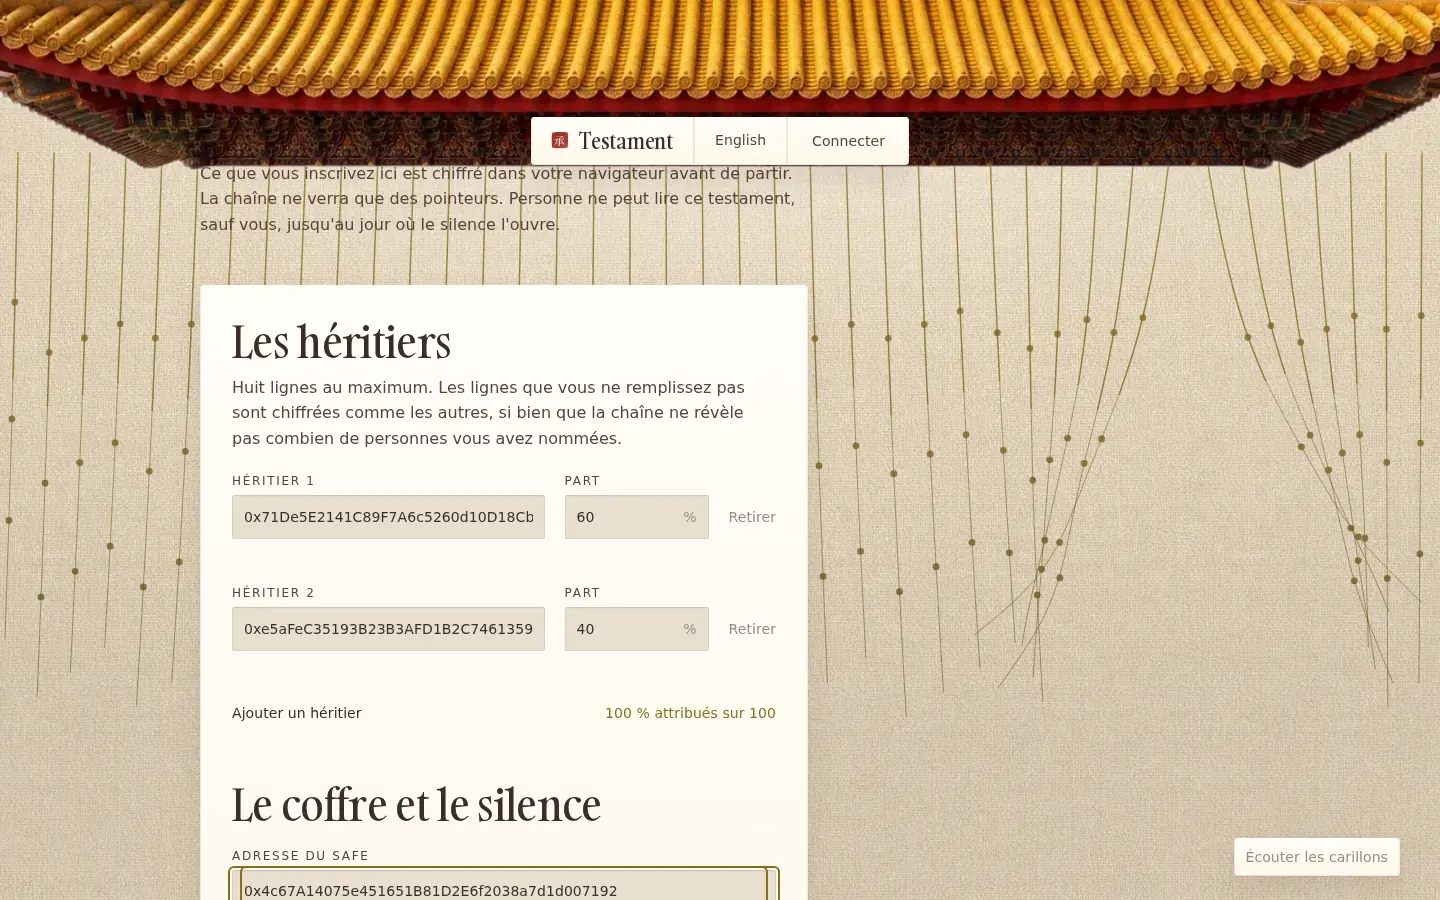
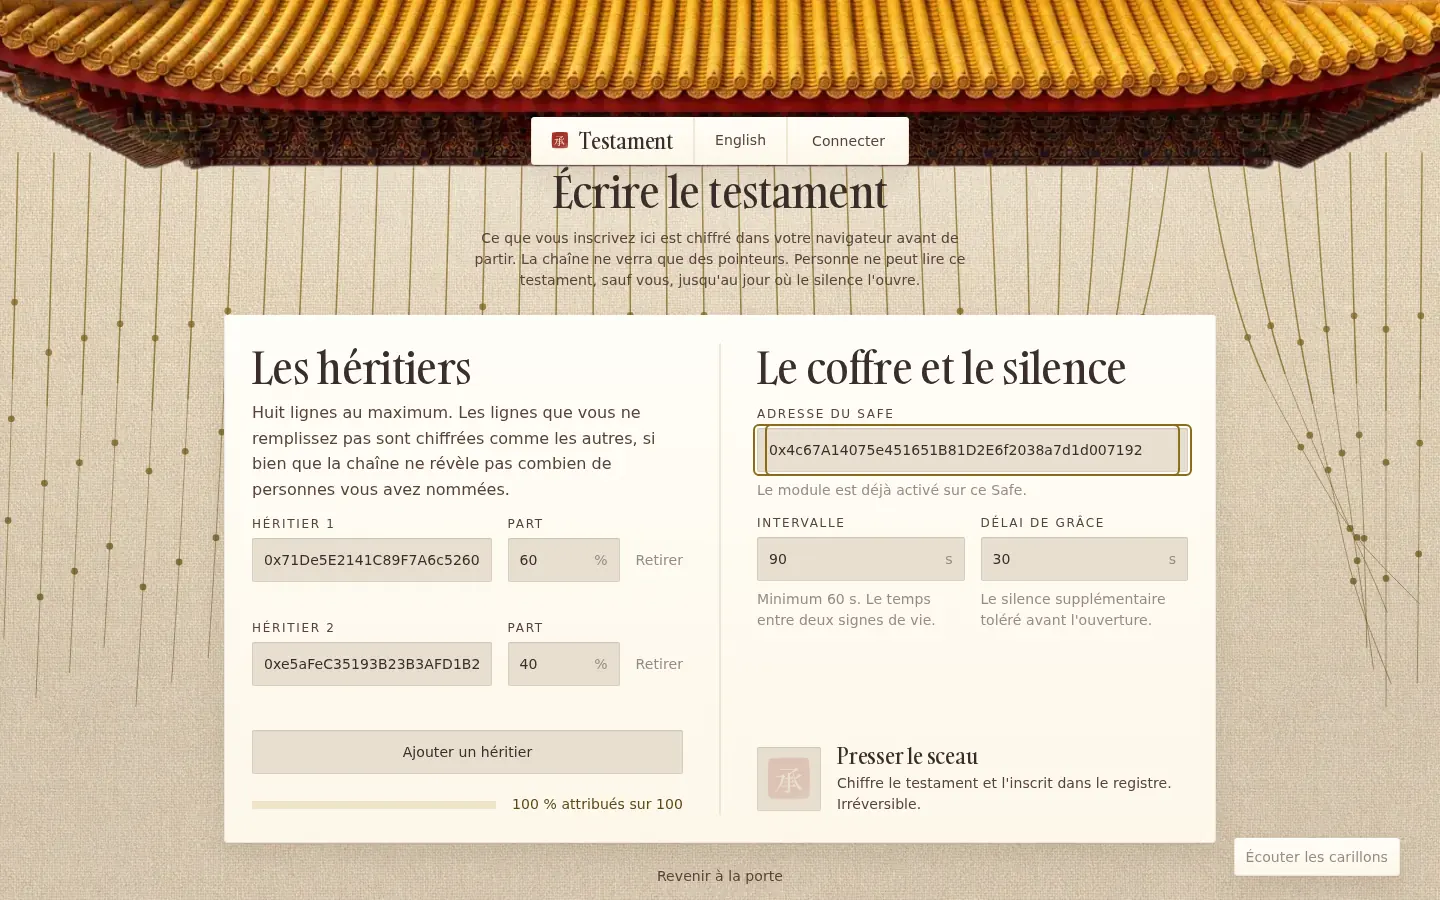
The write ritual fits one viewport
Centred title, then one sheet holding both halves of the will side by
side: heirs left, vault and silence right, the seal at the bottom right
where a document is signed. The divider is the mat showing through a cut
in the paper. Add-heir becomes a well button and the allocation count
gains a tonal meter in the same language as the heartbeat charge.

diff --git a/packages/web/src/components/testament/WritePanel.tsx b/packages/web/src/components/testament/WritePanel.tsx
@@ -201,160 +201,180 @@ export function WritePanel() {
   const isBusy = stage === "encrypting" || stage === "signing" || stage === "confirming";
 
   return (
-    <div className="flex flex-col gap-14">
-      <section className="flex flex-col gap-6">
-        <div className="flex flex-col gap-2">
-          <h2 className="type-display-lg">{copy.write.heirsTitle}</h2>
-          <p className="type-body text-ink-muted">
-{copy.write.heirsLede}
-          </p>
-        </div>
+    <div className="flex flex-col gap-8">
+      {/*
+        Two halves of one sheet, side by side the way the reference lays them out, so the
+        whole ritual fits a single viewport: who inherits on the left, the vault and its
+        silence on the right, the seal at the bottom right where a document is signed.
+        The divider is the mat showing through a cut in the paper, not a drawn rule.
+      */}
+      <div className="grid gap-10 lg:grid-cols-[1fr_2px_1fr] lg:gap-x-9">
+        <section className="flex flex-col gap-4">
+          <div className="flex flex-col gap-2">
+            <h2 className="type-display-lg">{copy.write.heirsTitle}</h2>
+            <p className="type-body text-ink-muted">{copy.write.heirsLede}</p>
+          </div>
 
-        <ul className="flex flex-col gap-5">
-          {drafts.map((draft, draftIndex) => (
-            <li key={draft.id} className="flex flex-col gap-4 sm:flex-row sm:items-start sm:gap-5">
-              <div className="flex-1">
-                <TextField
-                  label={copy.write.heirLabel(draftIndex + 1)}
-                  value={draft.beneficiary}
-                  onChange={(event) => updateDraft(draft.id, { beneficiary: event.target.value })}
-                  placeholder="0x…"
-                  spellCheck={false}
-                  autoComplete="off"
-                  error={
-                    draft.beneficiary !== "" && !isAddress(draft.beneficiary)
-                      ? copy.write.invalidAddress
-                      : null
-                  }
-                />
-              </div>
-              <div className="w-full sm:w-36">
-                <TextField
-                  label={copy.write.shareLabel}
-                  value={draft.sharePercent}
-                  onChange={(event) =>
-                    updateDraft(draft.id, { sharePercent: event.target.value.replace(/[^\d]/g, "") })
-                  }
-                  placeholder="0"
-                  inputMode="numeric"
-                  suffix="%"
-                />
-              </div>
-              {drafts.length > 1 ? (
-                <button
-                  type="button"
-                  onClick={() => removeBequest(draft.id)}
-                  className="type-small mt-0 self-start text-ink-faint transition-colors duration-(--dur-small) ease-(--ease-standard) hover:text-ink sm:mt-8"
-                >
-                  {copy.write.remove}
-                </button>
-              ) : null}
-            </li>
-          ))}
-        </ul>
+          <ul className="flex flex-col gap-3">
+            {drafts.map((draft, draftIndex) => (
+              <li key={draft.id} className="flex flex-col gap-3 sm:flex-row sm:items-start sm:gap-4">
+                <div className="flex-1">
+                  <TextField
+                    label={copy.write.heirLabel(draftIndex + 1)}
+                    value={draft.beneficiary}
+                    onChange={(event) => updateDraft(draft.id, { beneficiary: event.target.value })}
+                    placeholder="0x…"
+                    spellCheck={false}
+                    autoComplete="off"
+                    error={
+                      draft.beneficiary !== "" && !isAddress(draft.beneficiary)
+                        ? copy.write.invalidAddress
+                        : null
+                    }
+                  />
+                </div>
+                <div className="w-full sm:w-28">
+                  <TextField
+                    label={copy.write.shareLabel}
+                    value={draft.sharePercent}
+                    onChange={(event) =>
+                      updateDraft(draft.id, { sharePercent: event.target.value.replace(/[^\d]/g, "") })
+                    }
+                    placeholder="0"
+                    inputMode="numeric"
+                    suffix="%"
+                  />
+                </div>
+                {drafts.length > 1 ? (
+                  <button
+                    type="button"
+                    onClick={() => removeBequest(draft.id)}
+                    className="type-small self-start text-ink-faint transition-colors duration-(--dur-small) ease-(--ease-standard) hover:text-ink sm:mt-8"
+                  >
+                    {copy.write.remove}
+                  </button>
+                ) : null}
+              </li>
+            ))}
+          </ul>
 
-        <div className="flex flex-wrap items-baseline justify-between gap-4">
           <button
             ref={addButtonRef}
             type="button"
             onClick={addBequest}
             disabled={drafts.length >= SLOT_COUNT}
-            className="type-small text-ink transition-colors duration-(--dur-small) ease-(--ease-standard) hover:text-bronze disabled:text-ink-faint"
+            className="panel-well type-small min-h-11 w-full px-4 text-ink transition-colors duration-(--dur-small) ease-(--ease-standard) hover:text-bronze-deep disabled:text-ink-faint"
           >
             {copy.write.addHeir}
           </button>
-          <p
-            className="type-small type-numeric"
-            style={{ color: totalPercent === 100 ? "var(--color-bronze)" : "var(--color-ink-muted)" }}
-          >
-            {copy.write.allocated(totalPercent)}
-          </p>
-        </div>
-      </section>
 
-      <section className="flex flex-col gap-5">
-        <h2 className="type-display-lg">{copy.write.vaultTitle}</h2>
-        <TextField
-          label={copy.write.safeLabel}
-          value={safeAddress}
-          onChange={(event) => setSafeAddress(event.target.value)}
-          placeholder="0x…"
-          spellCheck={false}
-          autoComplete="off"
-          error={safeAddress !== "" && !isAddress(safeAddress) ? copy.write.invalidAddress : null}
-          hint={
-            isModuleEnabled === true
-              ? copy.write.safeHintEnabled
-              : isModuleEnabled === false
-                ? copy.write.safeHintDisabled
-                : copy.write.safeHintDefault
-          }
-        />
-        <div className="flex flex-col gap-5 sm:flex-row">
-          <div className="flex-1">
-            <TextField
-              label={copy.write.intervalLabel}
-              value={intervalSeconds}
-              onChange={(event) => setIntervalSeconds(event.target.value.replace(/[^\d]/g, ""))}
-              inputMode="numeric"
-              suffix="s"
-              hint={copy.write.intervalHint(MIN_INTERVAL_SECONDS)}
-            />
+          {/*
+            The allocation meter: the same tonal-fill-in-a-well language as the heartbeat
+            charge. Full track, stable square edges, clamped, never a saturated bar.
+          */}
+          <div className="mt-auto flex items-center gap-4 pt-1">
+            <div aria-hidden="true" className="panel-well relative h-2 flex-1 overflow-hidden">
+              <span
+                className="absolute inset-y-0 left-0 bg-bronze-sunk"
+                style={{
+                  width: `${Math.min(100, totalPercent)}%`,
+                  transition: "width var(--dur-standard) var(--ease-standard)",
+                }}
+              />
+            </div>
+            <p
+              className="type-small type-numeric shrink-0"
+              style={{ color: totalPercent === 100 ? "var(--color-bronze-deep)" : "var(--color-ink-muted)" }}
+            >
+              {copy.write.allocated(totalPercent)}
+            </p>
           </div>
-          <div className="flex-1">
-            <TextField
-              label={copy.write.graceLabel}
-              value={graceSeconds}
-              onChange={(event) => setGraceSeconds(event.target.value.replace(/[^\d]/g, ""))}
-              inputMode="numeric"
-              suffix="s"
-              hint={copy.write.graceHint}
-            />
+        </section>
+
+        <span aria-hidden="true" className="hidden self-stretch bg-field lg:block" />
+
+        <section className="flex flex-col gap-4">
+          <h2 className="type-display-lg">{copy.write.vaultTitle}</h2>
+          <TextField
+            label={copy.write.safeLabel}
+            value={safeAddress}
+            onChange={(event) => setSafeAddress(event.target.value)}
+            placeholder="0x…"
+            spellCheck={false}
+            autoComplete="off"
+            error={safeAddress !== "" && !isAddress(safeAddress) ? copy.write.invalidAddress : null}
+            hint={
+              isModuleEnabled === true
+                ? copy.write.safeHintEnabled
+                : isModuleEnabled === false
+                  ? copy.write.safeHintDisabled
+                  : copy.write.safeHintDefault
+            }
+          />
+          <div className="flex flex-col gap-4 sm:flex-row">
+            <div className="flex-1">
+              <TextField
+                label={copy.write.intervalLabel}
+                value={intervalSeconds}
+                onChange={(event) => setIntervalSeconds(event.target.value.replace(/[^\d]/g, ""))}
+                inputMode="numeric"
+                suffix="s"
+                hint={copy.write.intervalHint(MIN_INTERVAL_SECONDS)}
+              />
+            </div>
+            <div className="flex-1">
+              <TextField
+                label={copy.write.graceLabel}
+                value={graceSeconds}
+                onChange={(event) => setGraceSeconds(event.target.value.replace(/[^\d]/g, ""))}
+                inputMode="numeric"
+                suffix="s"
+                hint={copy.write.graceHint}
+              />
+            </div>
           </div>
-        </div>
-      </section>
 
-      <section className="flex flex-col gap-6 pt-6">
-        <SealPress
-          onPress={() => void handleSeal()}
-          isStamped={stage === "sealed"}
-          isBusy={isBusy}
-          busyLabel={resolveBusyLabel(stage, copy)}
-          disabledReason={validation.ok ? null : validation.message}
-        />
+          <div className="mt-auto flex flex-col gap-3 pt-1">
+            <SealPress
+              onPress={() => void handleSeal()}
+              isStamped={stage === "sealed"}
+              isBusy={isBusy}
+              busyLabel={resolveBusyLabel(stage, copy)}
+              disabledReason={validation.ok ? null : validation.message}
+            />
 
-        {errorMessage !== null ? (
-          <p role="alert" className="type-small text-cinnabar">
-            {errorMessage}
-          </p>
-        ) : null}
+            {errorMessage !== null ? (
+              <p role="alert" className="type-small text-cinnabar">
+                {errorMessage}
+              </p>
+            ) : null}
 
-        {sealTransaction !== null ? (
-          <a
-            href={buildTransactionUrl(sealTransaction)}
-            target="_blank"
-            rel="noreferrer"
-            className="type-small type-numeric text-ink-muted transition-colors duration-(--dur-small) ease-(--ease-standard) hover:text-ink"
-          >
-            {copy.write.viewTransaction}
-          </a>
-        ) : null}
-      </section>
+            {sealTransaction !== null ? (
+              <a
+                href={buildTransactionUrl(sealTransaction)}
+                target="_blank"
+                rel="noreferrer"
+                className="type-small type-numeric text-ink-muted transition-colors duration-(--dur-small) ease-(--ease-standard) hover:text-ink"
+              >
+                {copy.write.viewTransaction}
+              </a>
+            ) : null}
+          </div>
+        </section>
+      </div>
 
       {stage === "sealed" ? (
-        <section className="flex flex-col gap-4 pt-6">
+        <section className="flex flex-col gap-4 border-0 pt-2">
           <h2 className="type-display-lg">{copy.write.openPassageTitle}</h2>
-          <p className="type-body text-ink-muted">
-{copy.write.openPassageLede}
-          </p>
+          <p className="type-body text-ink-muted">{copy.write.openPassageLede}</p>
           {isModuleEnabled === true ? (
-            <p className="type-small text-bronze">{copy.write.moduleEnabled}</p>
+            <p className="type-small text-bronze-deep">{copy.write.moduleEnabled}</p>
           ) : (
             <button
               type="button"
               onClick={() => void handleEnableModule()}
               disabled={isEnablingModule}
-              className="panel-well type-small min-h-11 w-fit px-5 py-3 text-ink transition-colors duration-(--dur-small) ease-(--ease-standard) hover:text-bronze disabled:text-ink-faint"
+              className="panel-well type-small min-h-11 w-fit px-5 py-3 text-ink transition-colors duration-(--dur-small) ease-(--ease-standard) hover:text-bronze-deep disabled:text-ink-faint"
             >
               {isEnablingModule ? copy.write.enablingModule : copy.write.enableModule}
             </button>

diff --git a/packages/web/src/components/testament/WriteScreen.tsx b/packages/web/src/components/testament/WriteScreen.tsx
@@ -6,33 +6,35 @@ import { WritePanel } from "@/components/testament/WritePanel";
 import { useTranslation } from "@/components/i18n/LanguageProvider";
 
 /**
- * The ritual.
+ * The ritual, on one sheet.
  *
- * A single narrow column laid over the scene, the way a scroll is unrolled in a doorway.
- * The curtain keeps moving behind it, so the page never stops being the same place.
+ * A centred title under the plaque, then one wide panel holding both halves of the will
+ * side by side, sized so the whole act (name the heirs, set the silence, press the seal)
+ * fits a single viewport. The curtain keeps moving behind it, so the page never stops
+ * being the same place.
  */
 export function WriteScreen() {
   const { copy } = useTranslation();
 
   return (
-    <div className="mx-auto w-full max-w-[1120px] px-6 pb-24 pt-40 sm:px-10 sm:pt-48">
-      <div className="max-w-[38rem]">
-        <div className="mb-12 flex flex-col gap-4">
-          <h1 className="type-display-hero">{copy.write.title}</h1>
-          <p className="type-body text-ink-muted">{copy.write.lede}</p>
-        </div>
+    <div className="mx-auto w-full max-w-[1120px] px-6 pb-10 pt-[max(7.75rem,18.5vh)] sm:px-10">
+      <div className="mx-auto mb-6 flex max-w-[44rem] flex-col items-center gap-3 text-center">
+        <h1 className="type-display-lg">{copy.write.title}</h1>
+        <p className="type-small max-w-[58ch] text-ink-muted">{copy.write.lede}</p>
+      </div>
 
-        <div className="panel p-6 sm:p-8">
-          <WritePanel />
-        </div>
+      <div className="panel mx-auto w-full max-w-[62rem] p-6 sm:p-7">
+        <WritePanel />
+      </div>
 
+      <p className="mt-5 text-center">
         <Link
           href="/"
-          className="type-small mt-10 inline-block text-ink-muted transition-colors duration-(--dur-small) ease-(--ease-standard) hover:text-ink"
+          className="type-small text-ink-muted transition-colors duration-(--dur-small) ease-(--ease-standard) hover:text-ink"
         >
           {copy.write.back}
         </Link>
-      </div>
+      </p>
     </div>
   );
 }

diff --git a/packages/web/scripts/verify-ui.ts b/packages/web/scripts/verify-ui.ts
@@ -166,7 +166,7 @@ const contrastSamples = await page.evaluate(() => {
   return {
     bodyOnPanel: readPair(".panel .type-body"),
     labelOnPanel: readPair(".panel .type-label"),
-    heading: readPair("h1.type-display-hero"),
+    heading: readPair("h1"),
   };
 });
 
